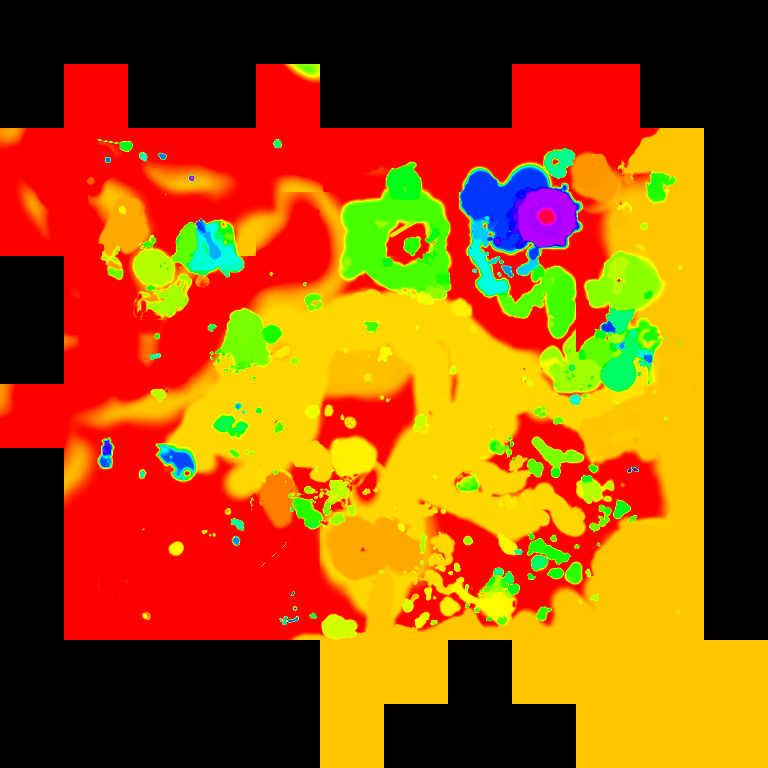
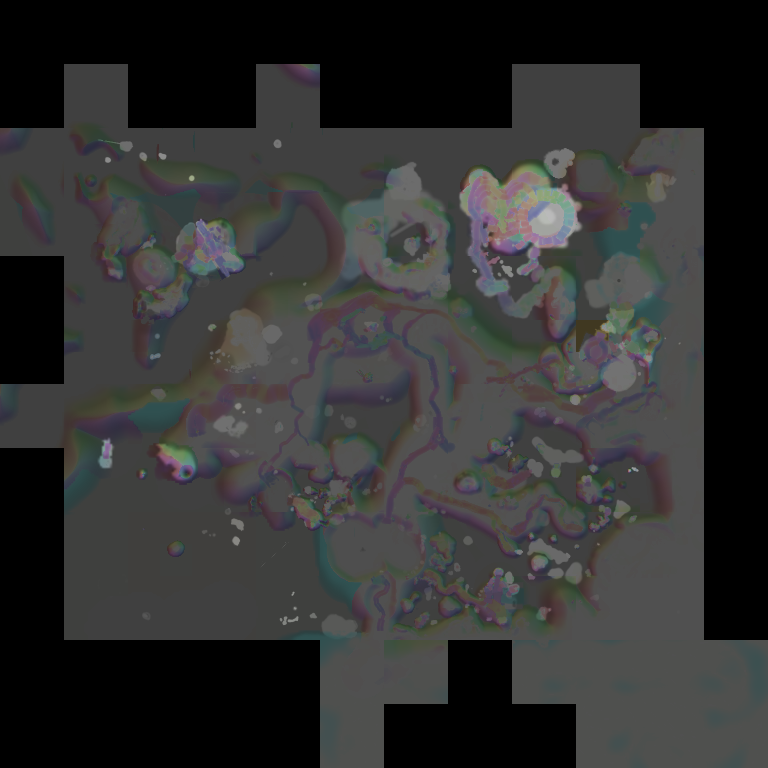
use logarithmmic flow magnitude

diff --git a/heightmap_water.py b/heightmap_water.py
@@ -45,8 +45,8 @@ for folder, _, files in os.walk('terrain_water'):
                 f.read(1)
                 material = int.from_bytes(f.read(1),'little') * 32
                 angle = int(math.atan2(y_flow, x_flow) * 128/math.pi + 128)
-                magnitude = int(math.hypot(x_flow, y_flow) / 182) # chosen based on maximum flow that exists in practice
-                img.putpixel((x,y), (height, 255, 255))
+                magnitude = int(23*math.log(1+math.hypot(x_flow, y_flow)))
+                img.putpixel((x,y), (angle, magnitude//2, height//2+64))
         f.close()
     i += 1
 img.convert("RGB").save('heightmap_water.png')
